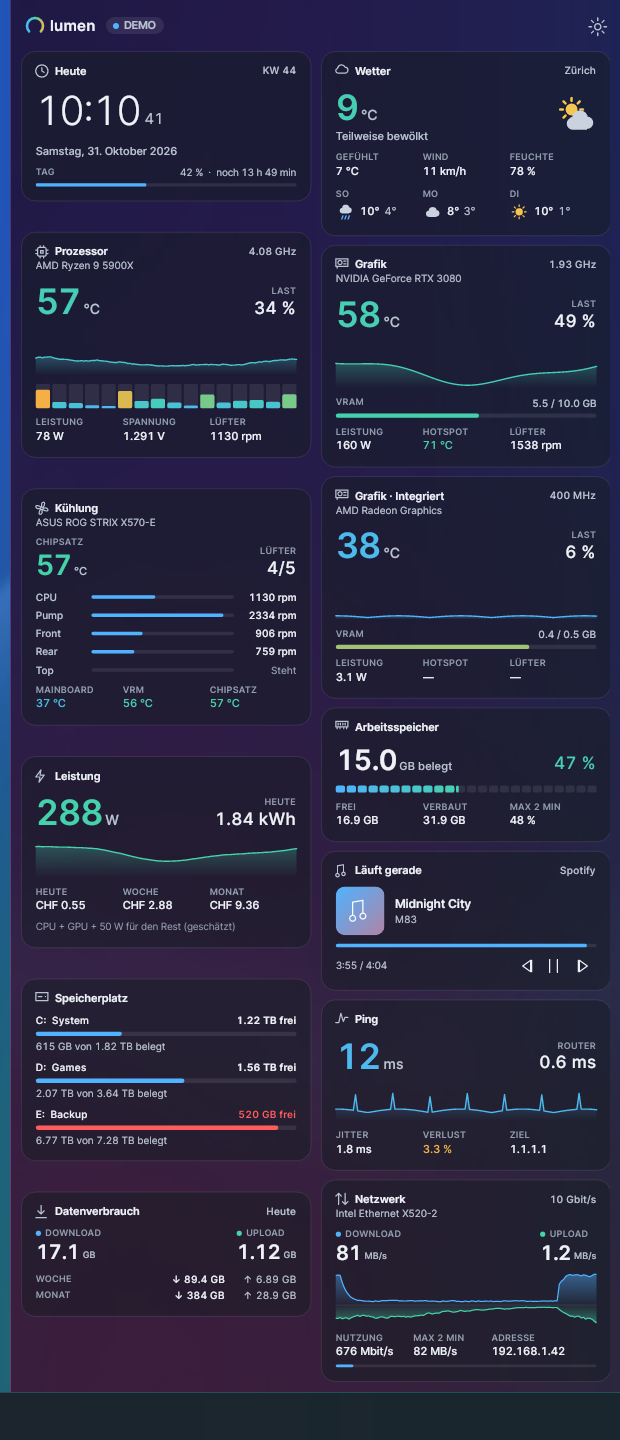
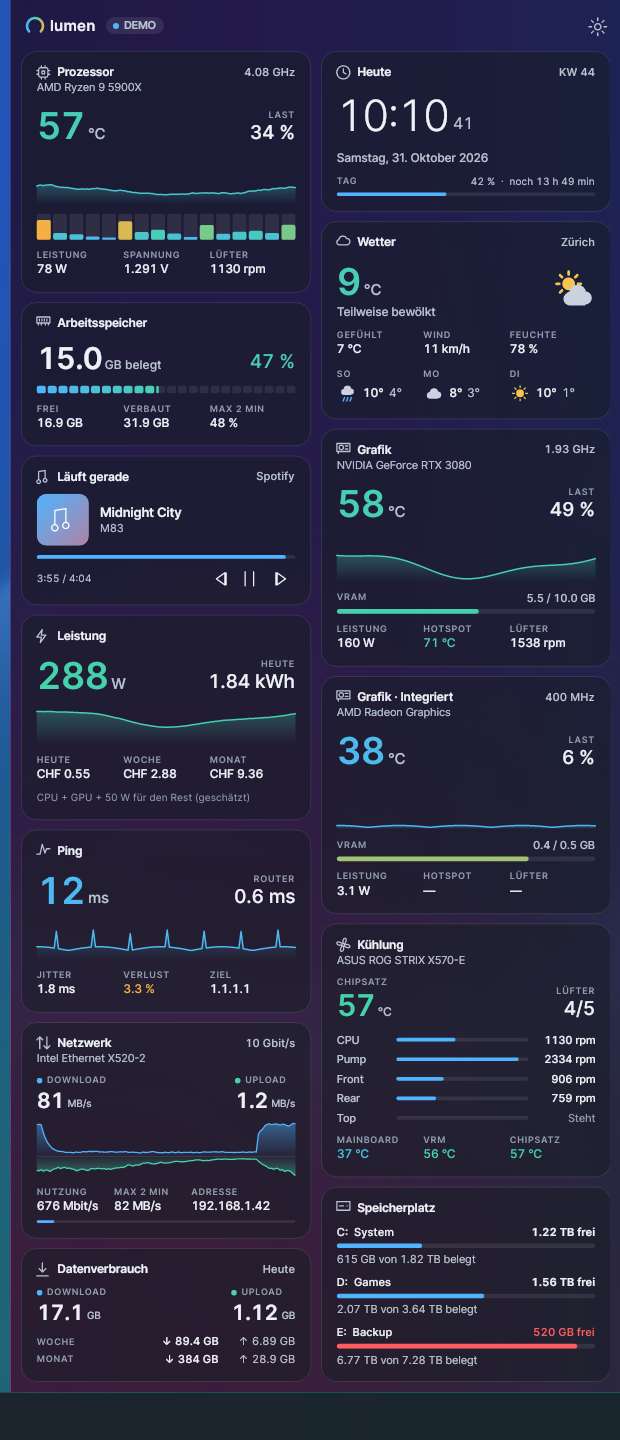
1.3.1: keep docked when columns change; fill two columns without gaps
Claude-Session: https://claude.ai/code/session_013ZRAQvxSE7kvrCVH4BjrzG

diff --git a/src/Lumen.App/SidebarView.cs b/src/Lumen.App/SidebarView.cs
@@ -2,6 +2,7 @@ using Avalonia;
 using Avalonia.Controls;
 using Avalonia.Input;
 using Avalonia.Layout;
+using Avalonia.LogicalTree;
 using Avalonia.Media;
 using Avalonia.Threading;
 using Lumen.Core;
@@ -27,7 +28,10 @@ public sealed class SidebarView : Border
     private readonly FitPanel fit;
     private int gpuCount = 1;
     private Metrics metrics;
-    private bool compacted;
+    private bool compacted, balanced;
+    private int rebalanceTries;
+    private Dictionary<WidgetKind, double>? measured;
+    private readonly Dictionary<WidgetKind, List<Control>> builtCards = new();
     private Snapshot? last; private History? lastHistory;
 
     public SidebarView(Settings settings, Palette palette)
@@ -139,7 +143,8 @@ public sealed class SidebarView : Border
     private void BuildCards()
     {
         widgets.Clear();
-        var columns = settings.Layout();
+        builtCards.Clear();
+        var columns = measured is null ? settings.Layout() : settings.Layout(w => measured.TryGetValue(w.Kind, out var hgt) ? hgt : Settings.Weight(w) * 150);
         for (int c = 0; c < lists.Count; c++)
         {
             var list = lists[c];
@@ -155,11 +160,13 @@ public sealed class SidebarView : Border
                 var (slot, index) = items[i];
                 var card = Cards.Create(slot.Kind, slot.Style, index, p, metrics, settings);
                 widgets.Add((IWidget)card);
+                Remember(slot.Kind, card);
                 // Two ring tiles in a row share one line.
                 if (slot.Style == WidgetStyle.Ring && card is RingTile && i + 1 < items.Count && items[i + 1].slot.Style == WidgetStyle.Ring && Settings.HasStyles(items[i + 1].slot.Kind))
                 {
                     var next = Cards.Create(items[i + 1].slot.Kind, WidgetStyle.Ring, items[i + 1].index, p, metrics, settings);
                     widgets.Add((IWidget)next);
+                    Remember(items[i + 1].slot.Kind, next);
                     var pair = new Grid { ColumnDefinitions = new ColumnDefinitions($"*,{metrics.Gap},*") };
                     Grid.SetColumn(next, 2);
                     pair.Children.Add(card);
@@ -171,6 +178,32 @@ public sealed class SidebarView : Border
             }
         }
         fit?.SetGap(metrics.Gap);
+    }
+
+    private void Remember(WidgetKind kind, Control card)
+    {
+        if (!builtCards.TryGetValue(kind, out var list)) builtCards[kind] = list = new();
+        list.Add(card);
+    }
+
+    private void Rebalance()
+    {
+        // Natural heights, without the chart growth and extra spacing the fill has added.
+        var heights = builtCards.ToDictionary(kv => kv.Key, kv => kv.Value.Sum(c => fit.NaturalHeight(c) + metrics.Gap));
+        // Not laid out yet: try again shortly.
+        if (heights.Values.Any(v => v <= metrics.Gap))
+        {
+            if (++rebalanceTries < 20) Dispatcher.UIThread.Post(Rebalance, DispatcherPriority.Background);
+            return;
+        }
+        var before = settings.Layout(measured is null ? null : w => measured.GetValueOrDefault(w.Kind, 150)).Select(c => string.Join(",", c.Select(x => x.Kind))).ToList();
+        var after = settings.Layout(w => heights.GetValueOrDefault(w.Kind, 150)).Select(c => string.Join(",", c.Select(x => x.Kind))).ToList();
+        if (Environment.GetEnvironmentVariable("LUMEN_DEBUG") == "1")
+            Console.WriteLine("rebalance " + string.Join(" ", heights.Select(kv => $"{kv.Key}={kv.Value:0}")) + " | " + string.Join(" / ", before) + " -> " + string.Join(" / ", after));
+        measured = heights;
+        if (before.SequenceEqual(after)) return;
+        BuildCards();
+        if (last != null) foreach (var w in widgets) w.Update(last, lastHistory!);
     }
 
     public void Update(Snapshot s, History h)
@@ -188,6 +221,13 @@ public sealed class SidebarView : Border
         int gpus = Math.Max(1, GpuGroup.Visible(s, settings).Count);
         if (gpus != gpuCount) { gpuCount = gpus; BuildCards(); }
         foreach (var w in widgets) w.Update(s, h);
+        // With two columns, place automatic widgets once more by their real heights, so both
+        // columns come out about equally tall and nothing has to be stretched to fill.
+        if (settings.Columns == 2 && !balanced)
+        {
+            balanced = true;
+            Dispatcher.UIThread.Post(Rebalance, DispatcherPriority.Background);
+        }
     }
 }
 
@@ -216,8 +256,45 @@ public sealed class FitPanel : Panel
 
     private static int Gaps(StackPanel l) => Math.Max(1, l.Children.Count(c => c.IsVisible) - 1);
 
-    // Height without any spare spacing added, so repeated passes land on the same answer.
-    private double Natural(StackPanel l) => l.DesiredSize.Height - Gaps(l) * (l.Spacing - gap);
+    // Charts are the elastic part of a column: they can grow to soak up spare height.
+    private readonly Dictionary<Control, double> baseHeight = new();
+
+    private List<Control> Growable(StackPanel l)
+    {
+        var list = l.GetLogicalDescendants().OfType<Control>()
+            .Where(c => c is AreaChart or MirrorChart && c.IsVisible && c.GetLogicalAncestors().OfType<Control>().All(a => a.IsVisible)).ToList();
+        foreach (var c in list) if (!baseHeight.ContainsKey(c) && double.IsFinite(c.Height)) baseHeight[c] = c.Height;
+        return list.Where(baseHeight.ContainsKey).ToList();
+    }
+
+    // Inside each card, the space between its rows can open up a little too.
+    private readonly Dictionary<StackPanel, double> baseSpacing = new();
+
+    private List<StackPanel> Airy(StackPanel l)
+    {
+        var list = l.GetLogicalDescendants().OfType<StackPanel>()
+            .Where(c => Equals(c.Tag, "elastic") && c.IsVisible && c.Children.Count(x => x.IsVisible) > 1).ToList();
+        foreach (var c in list) if (!baseSpacing.ContainsKey(c)) baseSpacing[c] = c.Spacing;
+        return list;
+    }
+
+    private static int InnerGaps(StackPanel s) => s.Children.Count(x => x.IsVisible) - 1;
+
+    public double NaturalHeight(Control card)
+    {
+        double h = card.DesiredSize.Height;
+        foreach (var c in card.GetLogicalDescendants().OfType<Control>().Where(x => x is AreaChart or MirrorChart && x.IsVisible))
+            if (baseHeight.TryGetValue(c, out var b)) h -= c.Height - b;
+        foreach (var s in card.GetLogicalDescendants().OfType<StackPanel>().Where(x => Equals(x.Tag, "elastic")).Concat(card is StackPanel sp && Equals(sp.Tag, "elastic") ? new[] { sp } : Array.Empty<StackPanel>()))
+            if (baseSpacing.TryGetValue(s, out var b) && s.IsVisible) h -= (s.Spacing - b) * Math.Max(0, InnerGaps(s));
+        return h;
+    }
+
+    private double Grown(StackPanel l) => Growable(l).Sum(c => c.Height - baseHeight[c])
+        + Airy(l).Sum(s => (s.Spacing - baseSpacing[s]) * InnerGaps(s));
+
+    // Height without any spare spacing or chart growth added, so repeated passes land on the same answer.
+    private double Natural(StackPanel l) => l.DesiredSize.Height - Gaps(l) * (l.Spacing - gap) - Grown(l);
 
     private double MeasureAll(double colWidth, double s)
     {
@@ -235,12 +312,53 @@ public sealed class FitPanel : Panel
         {
             // Narrower text wraps differently at a new scale, so settle in a few steps.
             for (int i = 0; i < 4 && tallest * s > h + .5; i++) { s = h / tallest; tallest = MeasureAll(col, s); }
+            // Few widgets: grow everything a little (up to 8 %, beyond that labels get cut off)
+            // before the charts and gaps take up the rest.
+            double most = scale * 1.08;
+            for (int i = 0; i < 4 && tallest * s < h - .5 && s < most - .001; i++) { s = Math.Min(most, h / tallest); tallest = MeasureAll(col, s); }
             if (tallest * s > h) s = h / Math.Max(1, tallest);
         }
         foreach (var l in lists)
         {
-            double target = fit ? gap + Math.Min(Math.Max(0, h / s - Natural(l)) / Gaps(l), gap * 2.5) : gap;
-            if (Math.Abs(l.Spacing - target) > .5) { l.Spacing = target; l.Measure(new Size(col / s, double.PositiveInfinity)); }
+            var charts = Growable(l);
+            double spacing = gap, grow = 0;
+            bool airyChanged = false;
+            if (fit)
+            {
+                // Spare height goes first into slightly wider gaps, then into taller charts,
+                // and whatever is left into the gaps again, so every column ends at the bottom.
+                double spare = Math.Max(0, h / s - Natural(l));
+                double toGaps = Math.Min(spare, Gaps(l) * gap * .6);
+                spare -= toGaps;
+                if (charts.Count > 0)
+                {
+                    double room = charts.Sum(c => baseHeight[c] * 2.5);
+                    grow = Math.Min(spare, room);
+                    spare -= grow;
+                }
+                // Then the rows inside the cards breathe. Whatever is still left goes there too,
+                // so the cards themselves fill the column instead of empty gaps between them.
+                var airy = Airy(l);
+                int inner = airy.Sum(InnerGaps);
+                double perInner = inner > 0 ? spare / inner : 0;
+                spare -= perInner * inner;
+                foreach (var a in airy)
+                {
+                    double target = baseSpacing[a] + perInner;
+                    if (Math.Abs(a.Spacing - target) > .5) { a.Spacing = target; airyChanged = true; }
+                }
+                spacing = gap + (toGaps + spare) / Gaps(l);
+            }
+            if (!fit) foreach (var a in Airy(l)) if (a.Spacing != baseSpacing[a]) { a.Spacing = baseSpacing[a]; airyChanged = true; }
+            bool changed = Math.Abs(l.Spacing - spacing) > .5 || airyChanged;
+            if (changed) l.Spacing = spacing;
+            double total = charts.Sum(c => baseHeight[c]);
+            foreach (var c in charts)
+            {
+                double target = baseHeight[c] + (total > 0 ? grow * baseHeight[c] / total : 0);
+                if (Math.Abs(c.Height - target) > .5) { c.Height = target; changed = true; }
+            }
+            if (changed) l.Measure(new Size(col / s, double.PositiveInfinity));
         }
         if (Math.Abs(s - applied) > .001) { applied = s; Fitted?.Invoke(s); }
         return fit ? new Size(w, h) : new Size(w, lists.Max(l => l.DesiredSize.Height) * s);

diff --git a/src/Lumen.Core/Settings.cs b/src/Lumen.Core/Settings.cs
@@ -162,16 +162,37 @@ public sealed class Settings
 
     // Which column each visible widget goes in: pinned ones where they are pinned, the rest
     // in order, each to the column that is currently shorter (ties go left).
-    public List<List<WidgetSlot>> Layout()
+    // weight: measured card heights once the sidebar has been laid out; the estimate before that.
+    public List<List<WidgetSlot>> Layout(Func<WidgetSlot, double>? weight = null)
     {
+        weight ??= Weight;
         var visible = Widgets.Where(w => w.Visible).ToList();
         if (Columns < 2) return new() { visible };
         var cols = new List<List<WidgetSlot>> { new(), new() };
-        double[] height = { visible.Where(w => w.Column == 1).Sum(Weight), visible.Where(w => w.Column == 2).Sum(Weight) };
+        double[] height = { visible.Where(w => w.Column == 1).Sum(weight), visible.Where(w => w.Column == 2).Sum(weight) };
+        // Few enough free widgets: try every split and keep the one whose taller column is
+        // shortest, so neither column has to be stretched much to reach the bottom.
+        var free = visible.Where(w => w.Column == 0).ToList();
+        if (free.Count is > 0 and <= 16)
+        {
+            int best = 0; double bestMax = double.MaxValue;
+            var weights = free.Select(weight).ToArray();
+            for (int mask = 0; mask < 1 << free.Count; mask++)
+            {
+                double a = height[0], b = height[1];
+                for (int i = 0; i < free.Count; i++) if ((mask & (1 << i)) == 0) a += weights[i]; else b += weights[i];
+                double worst = Math.Max(a, b);
+                if (worst < bestMax - .5) { bestMax = worst; best = mask; }
+            }
+            int k = 0;
+            foreach (var w in visible)
+                cols[w.Column > 0 ? w.Column - 1 : (best & (1 << k++)) == 0 ? 0 : 1].Add(w);
+            return cols;
+        }
         foreach (var w in visible)
         {
             int c = w.Column > 0 ? w.Column - 1 : height[0] <= height[1] ? 0 : 1;
-            if (w.Column == 0) height[c] += Weight(w);
+            if (w.Column == 0) height[c] += weight(w);
             cols[c].Add(w);
         }
         return cols;

diff --git a/src/Lumen.App/SidebarWindow.cs b/src/Lumen.App/SidebarWindow.cs
@@ -23,6 +23,9 @@ public sealed class SidebarWindow : Window
         Background = Brushes.Transparent;
         Icon = new WindowIcon(AssetLoader.Open(new Uri("avares://Lumen/Assets/lumen.ico")));
         ScalingChanged += (_, _) => { if (settings != null) Place(settings); };
+        // Any later size change (DPI, columns, width) must keep the strip flush with its edge.
+        Resized += (_, _) => Avalonia.Threading.Dispatcher.UIThread.Post(() => { if (settings != null && Position != target) Position = target; }, Avalonia.Threading.DispatcherPriority.Background);
+        Opened += (_, _) => { if (settings != null) Place(settings); };
     }
 
     private Settings? settings;
@@ -62,10 +65,17 @@ public sealed class SidebarWindow : Window
             }
             else if (reserved) { AppBar.Release(handle); reserved = false; }
         }
-        Position = new PixelPoint(x, y);
+        // Size first, then position: Windows keeps the left edge when a window is resized, so
+        // moving before resizing left a right-docked sidebar stranded away from the edge.
         Width = logical;
         Height = h / scale;
+        Position = new PixelPoint(x, y);
+        target = new PixelPoint(x, y);
+        // The resize lands a moment later; dock again once it has.
+        Avalonia.Threading.Dispatcher.UIThread.Post(() => { if (Position != target) Position = target; }, Avalonia.Threading.DispatcherPriority.Background);
     }
+
+    private PixelPoint target;
 
     public void Release()
     {

diff --git a/tools/Lumen.Shots/Program.cs b/tools/Lumen.Shots/Program.cs
@@ -127,6 +127,13 @@ DesktopShot("desktop-two-columns", new Settings
     Widgets = Only(WidgetKind.Clock, WidgetKind.Weather, WidgetKind.Cpu, WidgetKind.Gpu, WidgetKind.Cooling, WidgetKind.Memory,
         WidgetKind.Media, WidgetKind.Power, WidgetKind.Ping, WidgetKind.Volumes, WidgetKind.Network, WidgetKind.DataUsage)
 }, true);
+// The user's own set in two columns: both columns must reach the bottom.
+DesktopShot("desktop-two-columns-user", new Settings
+{
+    Language = "en", Columns = 2, Colors = "#F97316",
+    Widgets = Only(WidgetKind.Cpu, WidgetKind.Gpu, WidgetKind.Cooling, WidgetKind.Memory, WidgetKind.System, WidgetKind.Drives, WidgetKind.Network),
+    ShowIntegratedGpu = false
+}, true);
 // Ring tiles pair up, minimal lines take one slim row each.
 var rings = new Settings
 {

diff --git a/src/Lumen.App/Cards.cs b/src/Lumen.App/Cards.cs
@@ -40,6 +40,8 @@ public abstract class Card : Border, IWidget
         subtitle = Ui.Text("", 11.5, p.Soft);
         subtitle.IsVisible = false;
         Body = Ui.Stack(m.Gap, Ui.Stack(1, header, subtitle));
+        // FitPanel may widen the row spacing to fill a column exactly.
+        Body.Tag = "elastic";
         Child = Body;
     }
 

diff --git a/docs/release-notes/v1.3.1.md b/docs/release-notes/v1.3.1.md
@@ -1,0 +1,7 @@
+# Lumen 1.3.1
+
+- **Docking:** switching between one and two columns (or changing the width) keeps the sidebar flush with its screen edge; no more detour via "Always on top".
+- **Two columns with "Automatic":** widgets are split by their real heights so both columns come out equally tall, and any remaining height goes into larger charts and the cards themselves – no empty gaps.
+- With very few widgets everything grows slightly.
+
+Includes everything from 1.3.0 (LibreHardwareMonitor + Open Hardware Monitor, sensor list, new widgets).
